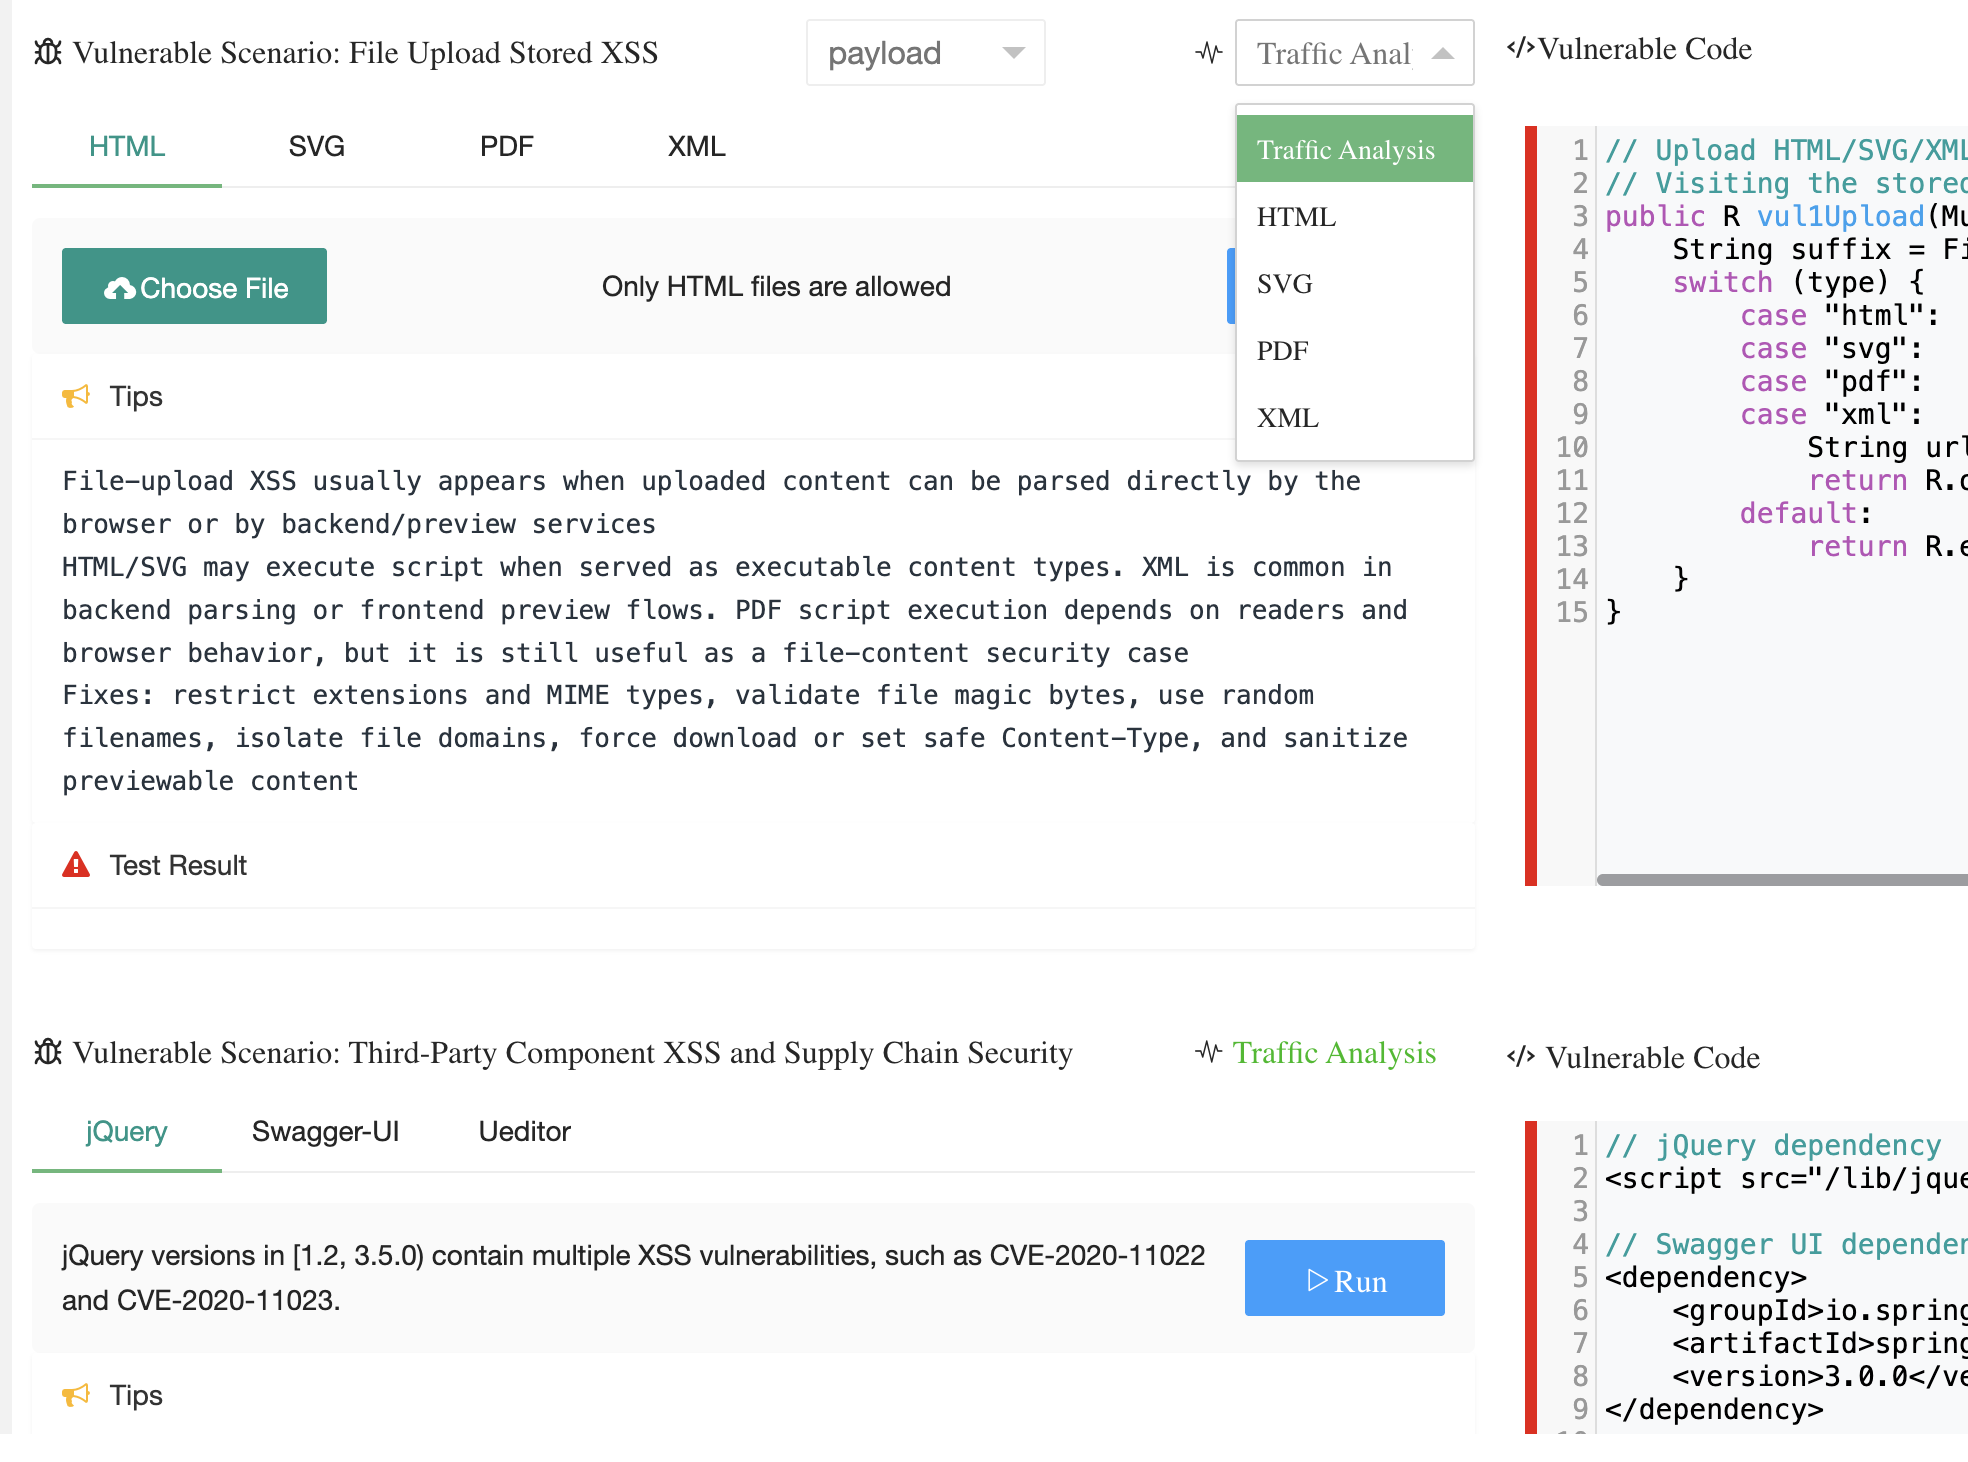
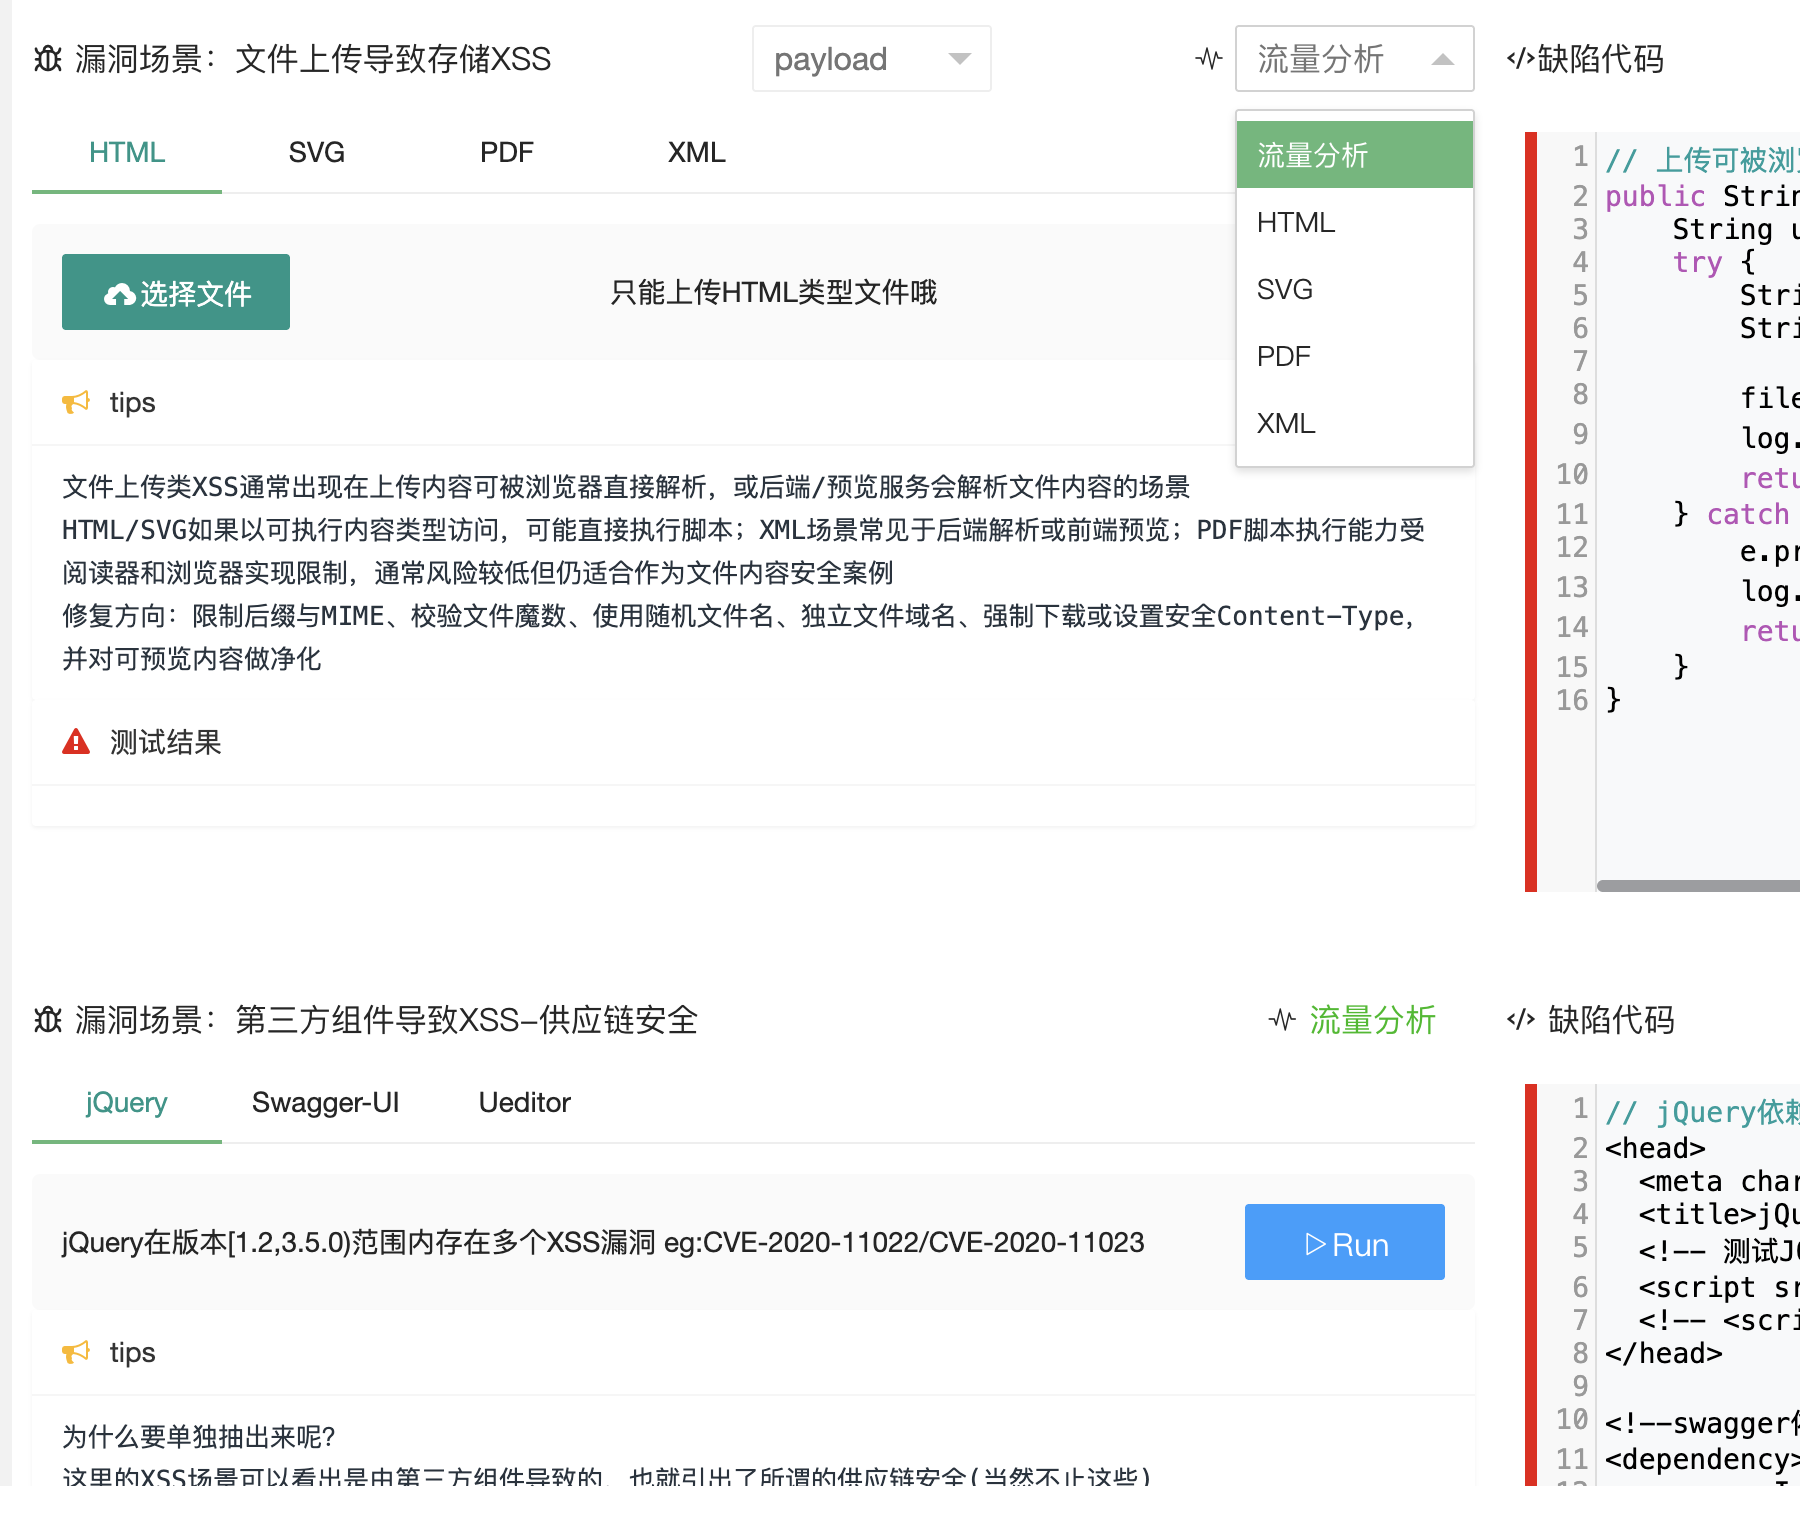
modified show pics

diff --git a/README.md b/README.md
@@ -67,7 +67,7 @@ The same vulnerability type often appears through multiple trigger paths in real
 
 JavaSecLab includes vulnerability traffic-analysis examples to help learners connect request/response behavior with code execution. Contributions with clearer packets, better reproduction notes, or additional analysis examples are welcome.
 
-![flow1](./pic/flow1.png)
+![flow1](./pic/flow1-en.png)
 
 For example, in a time-based SQL injection scenario, the traffic pattern can be observed through response latency: the server responds after roughly five seconds.
 
